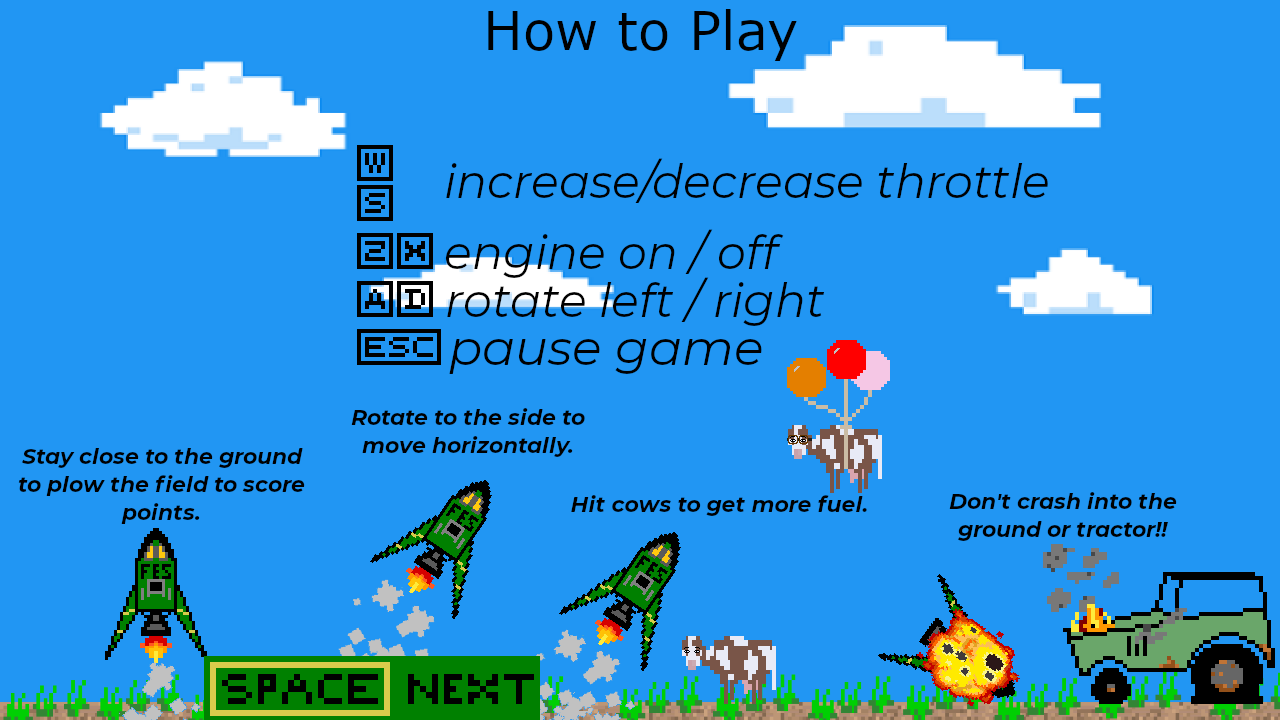
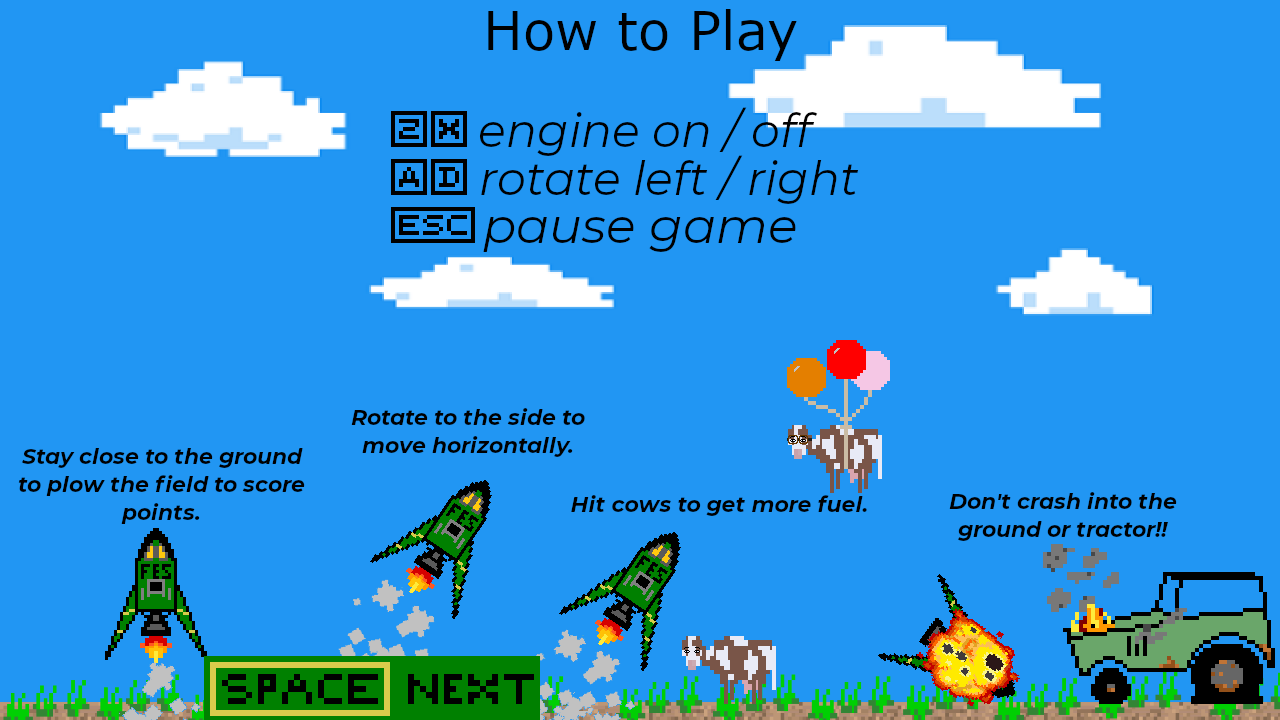
Removed incremental throttle, added animated flame
-Removed incremental throttle using w/s
-Added animated flame
-Updated title/menu screens to remove incremental throttle

Changed region(s): [[0.2812, 0.1528, 0.8125, 0.5194]]

diff --git a/gameMain.m b/gameMain.m
@@ -127,6 +127,9 @@ rocket.throttleBuffer = 0;
 rocket.rotBuffer = 0;
 rocket.specialBuffer = 0;
 
+%Timer for flame animation if used.
+flameAnimTimer = 0;
+
 %% Create cow Sprite object
 cow = SpriteKit.Sprite('cow');
 
@@ -320,6 +323,7 @@ function action
                     %Set the rocket's game state so that next frame the
                     %game will start
                     rocket.gameState = 'play';
+                    rocket.State = 'thrust0'; %don't be invisible
                 case 3 %q key, stop game
                     G.stop(); %stop gameplay execution
                     close(gcf); %Close the current figure (the game)
@@ -378,7 +382,8 @@ function action
             end
             
             %% Rocket Physics
-            rocket.State = 'thrust0'; %Show the rocket
+            %This isn't necessary
+            %rocket.State = 'thrust0'; %Show the rocket
             
             %Check for pausing the game.
             if rocket.specialBuffer == 1
@@ -421,9 +426,18 @@ function action
                 case 2 %x key, cut throttle
                     throttleVal = 0;
                 case 3 %w key, increase throttle
-                    throttleVal = rocket.throttle + Const.throttleInc * Const.frameTime;
+                    %Only if incremental throttle is enabled
+                    if Const.incThrottle
+                        throttleVal = rocket.throttle + Const.throttleInc * Const.frameTime;
+                    else 
+                        throttleVal = rocket.throttle;
+                    end
                 case 4 %s key, reduce throttle
-                    throttleVal = rocket.throttle - Const.throttleInc * Const.frameTime;
+                    if Const.incThrottle
+                        throttleVal = rocket.throttle - Const.throttleInc * Const.frameTime;
+                    else
+                        throttleVal = rocket.throttle;
+                    end
                 otherwise
                     throttleVal = rocket.throttle;
             end
@@ -533,19 +547,41 @@ function action
             end
             
             %% Scoring and Display
-            %Show the rocket throttle states: If the rocket throttle is
-            %between certain values, it shows a different size flame.
-            %Also if the rocket is out of propellant
-            if (rocket.throttle <= Const.throttle0cutoff) || rocket.propMass <= 1
-                rocket.State = 'thrust0'; %Engine off
-            elseif rocket.throttle <= Const.throttle1cutoff
-                rocket.State = 'thrust1'; %Small flame
-            elseif rocket.throttle <= Const.throttle2cutoff
-                rocket.State = 'thrust2'; %Medium flame
-            else 
-                rocket.State = 'thrust3'; %Large flame
+            if Const.flameAnim
+                flameAnimTimer = flameAnimTimer + 1;
+
+                if (rocket.throttle <= Const.throttle0cutoff) || rocket.propMass <= 1
+                    rocket.State = 'thrust0'; %engine off
+                elseif flameAnimTimer >= Const.flameAnimTime
+                    flameAnimTimer = 0;
+                    switch rocket.State
+                        case "thrust0"
+                            rocket.State = 'thrust3';
+                        case "thrust1"
+                            rocket.State = 'thrust2';
+                        case "thrust2"
+                            rocket.State = 'thrust3';
+                        case "thrust3"
+                            rocket.State = 'thrust1';
+                    end
+                end
+
             end
-                
+            if ~Const.flameAnim
+                %Show the rocket throttle states: If the rocket throttle is
+                %between certain values, it shows a different size flame.
+                %Also if the rocket is out of propellant
+                if (rocket.throttle <= Const.throttle0cutoff) || rocket.propMass <= 1
+                    rocket.State = 'thrust0'; %Engine off
+                elseif rocket.throttle <= Const.throttle1cutoff
+                    rocket.State = 'thrust1'; %Small flame
+                elseif rocket.throttle <= Const.throttle2cutoff
+                    rocket.State = 'thrust2'; %Medium flame
+                else 
+                    rocket.State = 'thrust3'; %Large flame
+                end
+            end
+
             %Update the particles
             exhaustMgr.updateParticles([delta_pos(1), 0]);
 

diff --git a/Const.m b/Const.m
@@ -116,6 +116,20 @@ classdef Const
         maxPropMass = 360000; %maximum propellant mass, kilograms
         frictionMultiplier = 0.99; %velocity is multiplied by this each frame to approximate friction
         frameTime = 1 / 60; %seconds
+
+        %Whether to use the W and S keys for incremental throttle.
+        %Gameplay is more fun without them! Also, MATLAB has issues
+        %handling multiple keypresses at once. Using the Z and X keys
+        %exclusively means that you have instant control of throttle,
+        %whereas W and S would drop inputs if you were also changing angle.
+        incThrottle = 0; 
+
+        %Whether to animate the flame. Uses the different throttle images
+        %as animation rather than for different throttle levels.
+        flameAnim = 1;
+
+        %Frames between switching flame images if flame anim is used.
+        flameAnimTime = 5; 
         
         %Throttle cutoffs: Below these values, the rocket will appear to
         %have a different size of flame (if it has propellant).
